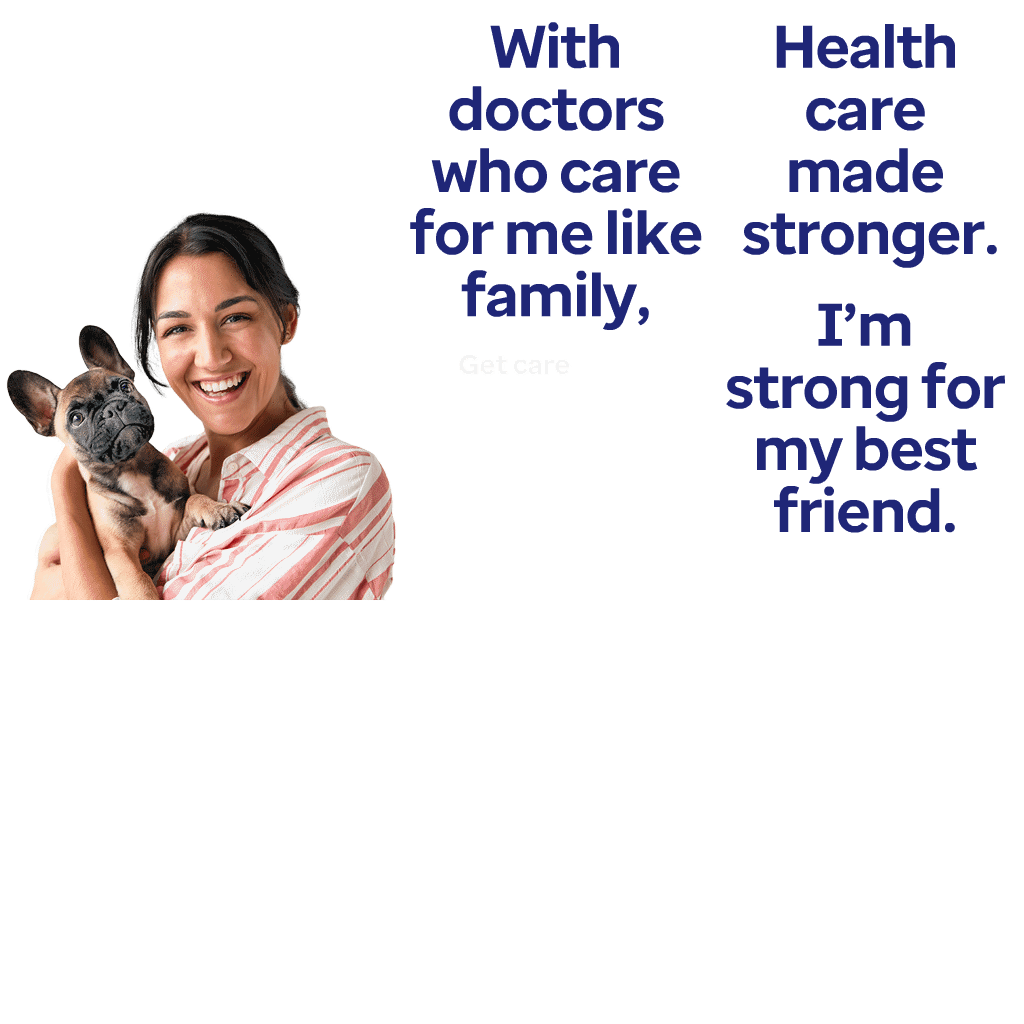
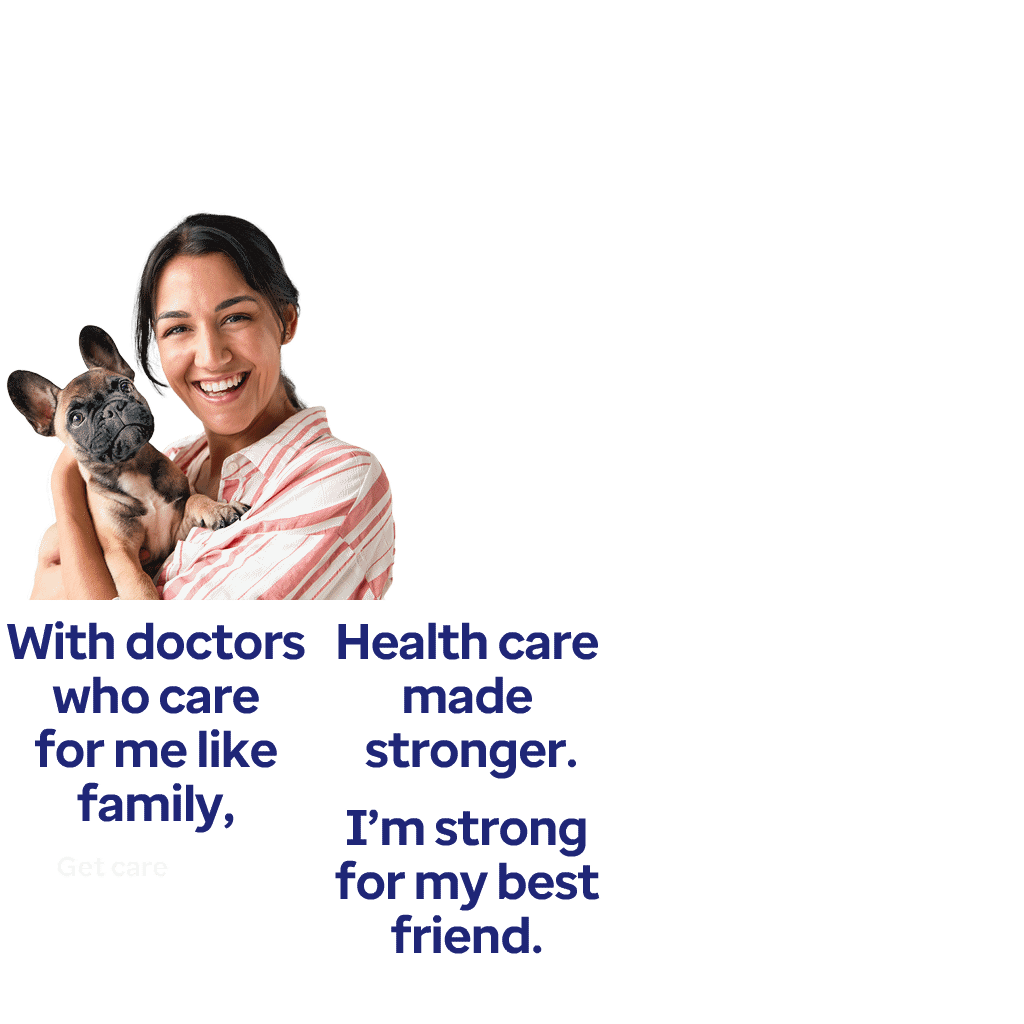
Add files via upload

diff --git a/eng-BestFriend/160x600/OPT471_Display_BestFriend_160x600.js b/eng-BestFriend/160x600/OPT471_Display_BestFriend_160x600.js
@@ -3,7 +3,7 @@
 var p; // shortcut to reference prototypes
 var lib={};var ss={};var img={};
 lib.ssMetadata = [
-		{name:"OPT471_Display_BestFriend_160x600_atlas_1", frames: [[712,0,306,276],[712,278,306,276],[402,0,308,338],[402,340,225,47],[0,0,400,600]]}
+		{name:"OPT471_Display_BestFriend_160x600_atlas_1", frames: [[314,602,306,184],[314,788,306,184],[0,602,312,238],[0,842,225,47],[0,0,400,600]]}
 ];
 
 
@@ -26,28 +26,28 @@ lib.ssMetadata = [
 
 
 
-(lib.CachedBmp_20 = function() {
+(lib.CachedBmp_4 = function() {
 	this.initialize(ss["OPT471_Display_BestFriend_160x600_atlas_1"]);
 	this.gotoAndStop(0);
 }).prototype = p = new cjs.Sprite();
 
 
 
-(lib.CachedBmp_19 = function() {
+(lib.CachedBmp_3 = function() {
 	this.initialize(ss["OPT471_Display_BestFriend_160x600_atlas_1"]);
 	this.gotoAndStop(1);
 }).prototype = p = new cjs.Sprite();
 
 
 
-(lib.CachedBmp_18 = function() {
+(lib.CachedBmp_2 = function() {
 	this.initialize(ss["OPT471_Display_BestFriend_160x600_atlas_1"]);
 	this.gotoAndStop(2);
 }).prototype = p = new cjs.Sprite();
 
 
 
-(lib.CachedBmp_17 = function() {
+(lib.CachedBmp_1 = function() {
 	this.initialize(ss["OPT471_Display_BestFriend_160x600_atlas_1"]);
 	this.gotoAndStop(3);
 }).prototype = p = new cjs.Sprite();
@@ -165,14 +165,14 @@ if (reversed == null) { reversed = false; }
 	cjs.MovieClip.apply(this,[props]);
 
 	// Layer_1
-	this.instance = new lib.CachedBmp_20();
+	this.instance = new lib.CachedBmp_4();
 	this.instance.setTransform(-76.5,0,0.5,0.5);
 
 	this.timeline.addTween(cjs.Tween.get(this.instance).wait(1));
 
 	this._renderFirstFrame();
 
-}).prototype = getMCSymbolPrototype(lib.HEAD3, new cjs.Rectangle(-76.5,0,153,138), null);
+}).prototype = getMCSymbolPrototype(lib.HEAD3, new cjs.Rectangle(-76.5,0,153,92), null);
 
 
 (lib.HEAD2 = function(mode,startPosition,loop,reversed) {
@@ -187,14 +187,14 @@ if (reversed == null) { reversed = false; }
 	cjs.MovieClip.apply(this,[props]);
 
 	// Layer_1
-	this.instance = new lib.CachedBmp_19();
+	this.instance = new lib.CachedBmp_3();
 	this.instance.setTransform(-76.5,0,0.5,0.5);
 
 	this.timeline.addTween(cjs.Tween.get(this.instance).wait(1));
 
 	this._renderFirstFrame();
 
-}).prototype = getMCSymbolPrototype(lib.HEAD2, new cjs.Rectangle(-76.5,0,153,138), null);
+}).prototype = getMCSymbolPrototype(lib.HEAD2, new cjs.Rectangle(-76.5,0,153,92), null);
 
 
 (lib.HEAD1 = function(mode,startPosition,loop,reversed) {
@@ -209,14 +209,14 @@ if (reversed == null) { reversed = false; }
 	cjs.MovieClip.apply(this,[props]);
 
 	// Layer_1
-	this.instance = new lib.CachedBmp_18();
-	this.instance.setTransform(-77,0,0.5,0.5);
+	this.instance = new lib.CachedBmp_2();
+	this.instance.setTransform(-78,0,0.5,0.5);
 
 	this.timeline.addTween(cjs.Tween.get(this.instance).wait(1));
 
 	this._renderFirstFrame();
 
-}).prototype = getMCSymbolPrototype(lib.HEAD1, new cjs.Rectangle(-77,0,154,169), null);
+}).prototype = getMCSymbolPrototype(lib.HEAD1, new cjs.Rectangle(-78,0,156,119), null);
 
 
 (lib.CTA = function(mode,startPosition,loop,reversed) {
@@ -231,7 +231,7 @@ if (reversed == null) { reversed = false; }
 	cjs.MovieClip.apply(this,[props]);
 
 	// type
-	this.instance = new lib.CachedBmp_17();
+	this.instance = new lib.CachedBmp_1();
 	this.instance.setTransform(-44.1,-25.85,0.4167,0.4167);
 
 	this.timeline.addTween(cjs.Tween.get(this.instance).wait(1));
@@ -366,35 +366,35 @@ if (reversed == null) { reversed = false; }
 
 	// mask hi
 	this.instance_4 = new lib.typeMask();
-	this.instance_4.setTransform(150,57.9,1,1,0,180,0,0,25.9);
+	this.instance_4.setTransform(150,107.9,1,1,0,180,0,0,25.9);
 
 	this.timeline.addTween(cjs.Tween.get(this.instance_4).wait(201));
 
 	// mask lo
 	this.instance_5 = new lib.typeMask();
-	this.instance_5.setTransform(150,315.9,1,1,0,0,0,0,25.9);
+	this.instance_5.setTransform(150,265.9,1,1,0,0,0,0,25.9);
 
 	this.timeline.addTween(cjs.Tween.get(this.instance_5).wait(201));
 
 	// HEAD1
 	this.instance_6 = new lib.HEAD1();
-	this.instance_6.setTransform(80,131,1,1,0,0,0,0,38);
+	this.instance_6.setTransform(80,161,1,1,0,0,0,0,38);
 
-	this.timeline.addTween(cjs.Tween.get(this.instance_6).wait(86).to({y:-117},8,cjs.Ease.quadIn).to({_off:true},1).wait(106));
+	this.timeline.addTween(cjs.Tween.get(this.instance_6).wait(86).to({y:43},8,cjs.Ease.quadIn).to({_off:true},1).wait(106));
 
 	// HEAD2
 	this.instance_7 = new lib.HEAD2();
-	this.instance_7.setTransform(80,319,1,1,0,0,0,0,38);
+	this.instance_7.setTransform(80,288,1,1,0,0,0,0,38);
 	this.instance_7._off = true;
 
-	this.timeline.addTween(cjs.Tween.get(this.instance_7).wait(94).to({_off:false},0).to({y:131},8,cjs.Ease.quadOut).wait(67).to({y:-117},7,cjs.Ease.quadIn).to({_off:true},1).wait(24));
+	this.timeline.addTween(cjs.Tween.get(this.instance_7).wait(94).to({_off:false},0).to({y:181},8,cjs.Ease.quadOut).wait(67).to({y:73},7,cjs.Ease.quadIn).to({_off:true},1).wait(24));
 
 	// HEAD3
 	this.instance_8 = new lib.HEAD3();
-	this.instance_8.setTransform(80,338.1,1,1,0,0,0,0,38);
+	this.instance_8.setTransform(80,288,1,1,0,0,0,0,38);
 	this.instance_8._off = true;
 
-	this.timeline.addTween(cjs.Tween.get(this.instance_8).wait(176).to({_off:false},0).to({y:151},8,cjs.Ease.quadOut).wait(17));
+	this.timeline.addTween(cjs.Tween.get(this.instance_8).wait(176).to({_off:false},0).to({y:178},8,cjs.Ease.quadOut).wait(17));
 
 	// bkgd
 	this.shape_1 = new cjs.Shape();
@@ -406,7 +406,7 @@ if (reversed == null) { reversed = false; }
 	this._renderFirstFrame();
 
 }).prototype = p = new lib.AnMovieClip();
-p.nominalBounds = new cjs.Rectangle(71,91.8,229.10000000000002,508.7);
+p.nominalBounds = new cjs.Rectangle(71,141.8,229.10000000000002,458.7);
 // library properties:
 lib.properties = {
 	id: '0957C5EC3B874C629166840920B09671',
@@ -416,7 +416,7 @@ lib.properties = {
 	color: "#333333",
 	opacity: 1.00,
 	manifest: [
-		{src:"images/OPT471_Display_BestFriend_160x600_atlas_1.png?1661922766514", id:"OPT471_Display_BestFriend_160x600_atlas_1"}
+		{src:"images/OPT471_Display_BestFriend_160x600_atlas_1.png?1662003021772", id:"OPT471_Display_BestFriend_160x600_atlas_1"}
 	],
 	preloads: []
 };
